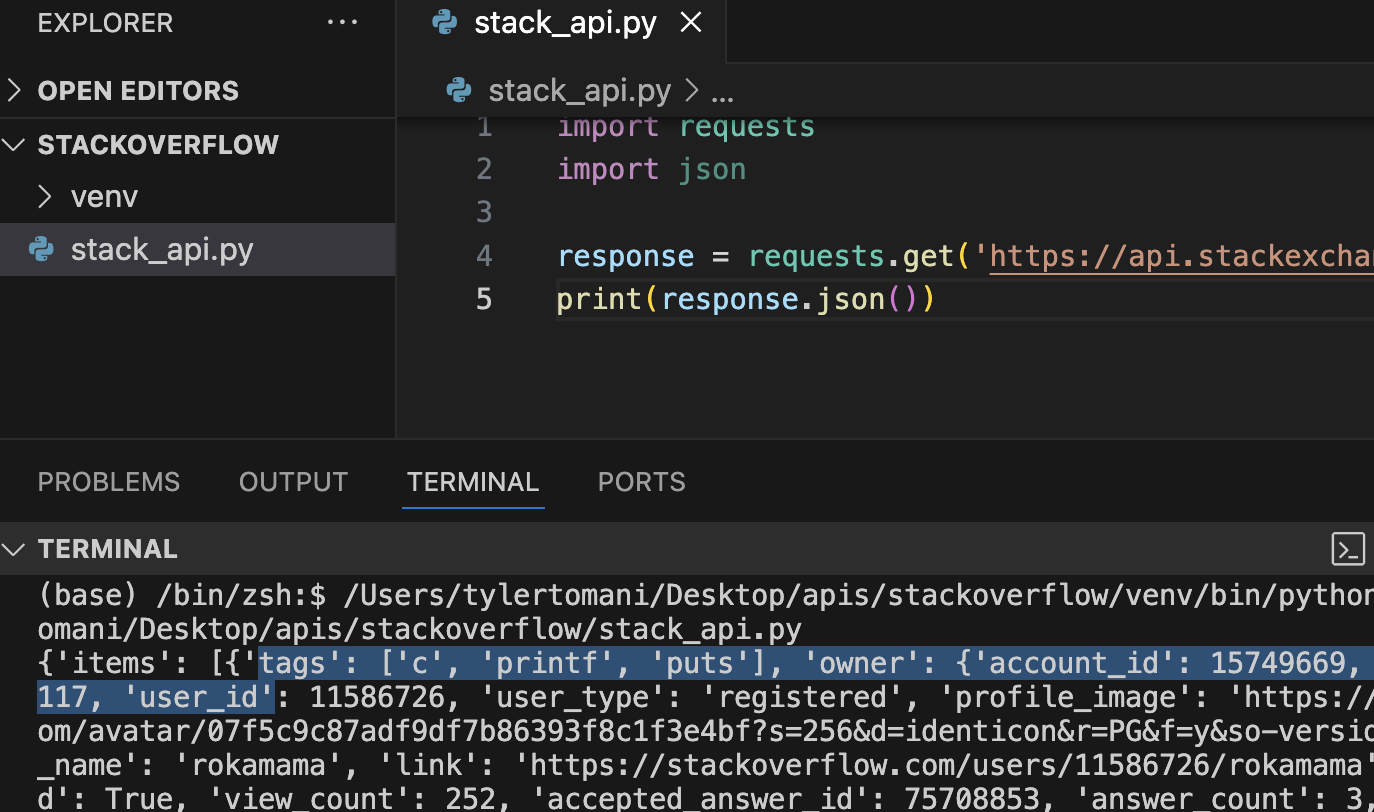
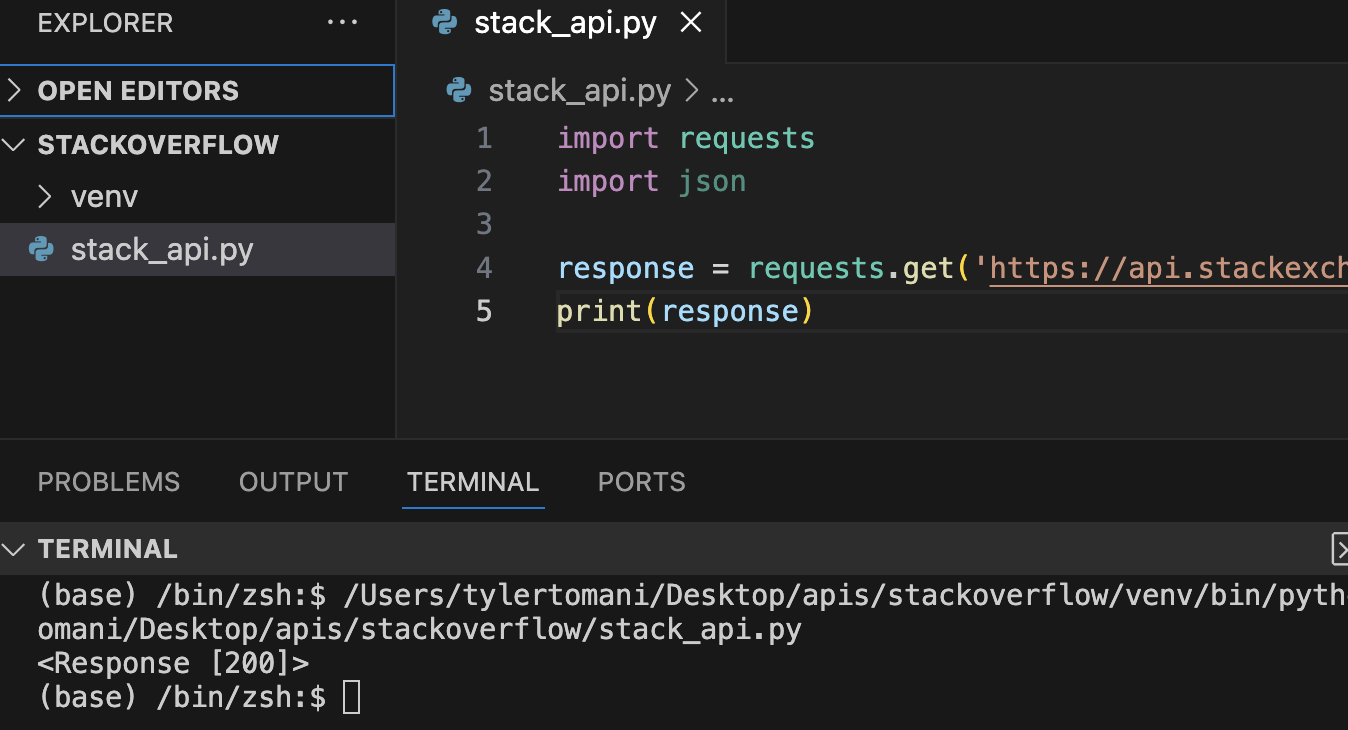
main

diff --git a/python-youtube/apis-python-youtube/stackoverflow-api/calebCurry-stackOflow-api/01-RESTApiCrashIntroFullPythonApiTutorial/sections/03/03-02/03-02.html b/python-youtube/apis-python-youtube/stackoverflow-api/calebCurry-stackOflow-api/01-RESTApiCrashIntroFullPythonApiTutorial/sections/03/03-02/03-02.html
@@ -12,7 +12,7 @@ https://api.stackexchange.com/2.3/questions?order=desc&sort=activity&site=stacko
             </div>
         </div>
     </div>
-    <!-- 01-01 -->
+    <!-- 01-02 -->
     <div class="step">
         <div tabindex="0" class="step-txt">
             <h4>02</h4>
@@ -33,10 +33,10 @@ print(response)</pre>
         </div>
         <div class="step-img">
             <img
-             src="sections/03/03-02/images/01.png">
+             src="sections/03/03-02/images/02.png">
         </div>
     </div>
-    <!-- 01-02 -->
+    <!-- 01-03 -->
     <div class="step">
         <div tabindex="0" class="step-txt">
             <h4>03</h4>
@@ -54,7 +54,29 @@ print(response.json())</pre>
             
         </div>
         <div class="step-img">
-            <img src="sections/03/03-02/images/02.png">
+            <img src="sections/03/03-02/images/03.png">
+        </div>
+    </div>
+    <!-- 01-04 -->
+    <div class="step">
+        <div tabindex="0" class="step-txt">
+            <h4>04</h4>
+            <p>
+                We can also query specific keys like <code>'items'</code> seen first, using
+                <br><code class="m">['']</code>'s
+            </p>
+            <div class="code-container">
+                <pre tabindex="0" class="copy-code txt90">
+import requests
+import json
+
+response = requests.get('https://api.stackexchange.com/2.3/questions?order=desc&sort=activity&site=stackoverflow')
+print(response.json() <span class="m">['</span>items'<span class="m">']</span> )</pre>
+            </div>
+            
+        </div>
+        <div class="step-img">
+            <img src="sections/03/03-02/images/04.png">
         </div>
     </div>
     

diff --git a/python-youtube/apis-python-youtube/stackoverflow-api/calebCurry-stackOflow-api/01-RESTApiCrashIntroFullPythonApiTutorial/01-RESTApiCrashIntroFullPythonApiTutorial.html b/python-youtube/apis-python-youtube/stackoverflow-api/calebCurry-stackOflow-api/01-RESTApiCrashIntroFullPythonApiTutorial/01-RESTApiCrashIntroFullPythonApiTutorial.html
@@ -19,8 +19,8 @@
     <script src="https://unpkg.com/boxicons@2.1.4/dist/boxicons.js"></script>
     
 </head>
-<body class="">
-<!-- <body class="dark-mode"> -->
+<!-- <body class=""> -->
+<body class="dark-mode">
     <header>
         <nav id="mainLinksContainer">
             <div id="mainLinks">

diff --git a/python-youtube/apis-python-youtube/stackoverflow-api/calebCurry-stackOflow-api/01-RESTApiCrashIntroFullPythonApiTutorial/css/lesson-stackoverflow.css b/python-youtube/apis-python-youtube/stackoverflow-api/calebCurry-stackOflow-api/01-RESTApiCrashIntroFullPythonApiTutorial/css/lesson-stackoverflow.css
@@ -193,7 +193,8 @@ video {
 .step-float > .step-txt{
     /* border: 1px solid orange; */
     width: 100%;
-    display: block;
+    display: flex;
+
 }
 .step-float .step-img {
     /* border: 4px solid magenta; */

diff --git a/python-youtube/apis-python-youtube/stackoverflow-api/calebCurry-stackOflow-api/01-RESTApiCrashIntroFullPythonApiTutorial/css/dark-mode-stackoverflow.css b/python-youtube/apis-python-youtube/stackoverflow-api/calebCurry-stackOflow-api/01-RESTApiCrashIntroFullPythonApiTutorial/css/dark-mode-stackoverflow.css
@@ -31,3 +31,7 @@
 .dark-mode .code-container > .copy-code{
     border: 1px solid white;
 }
+
+.dark-mode .enlarge{
+    border: 1px solid whitesmoke;
+}
